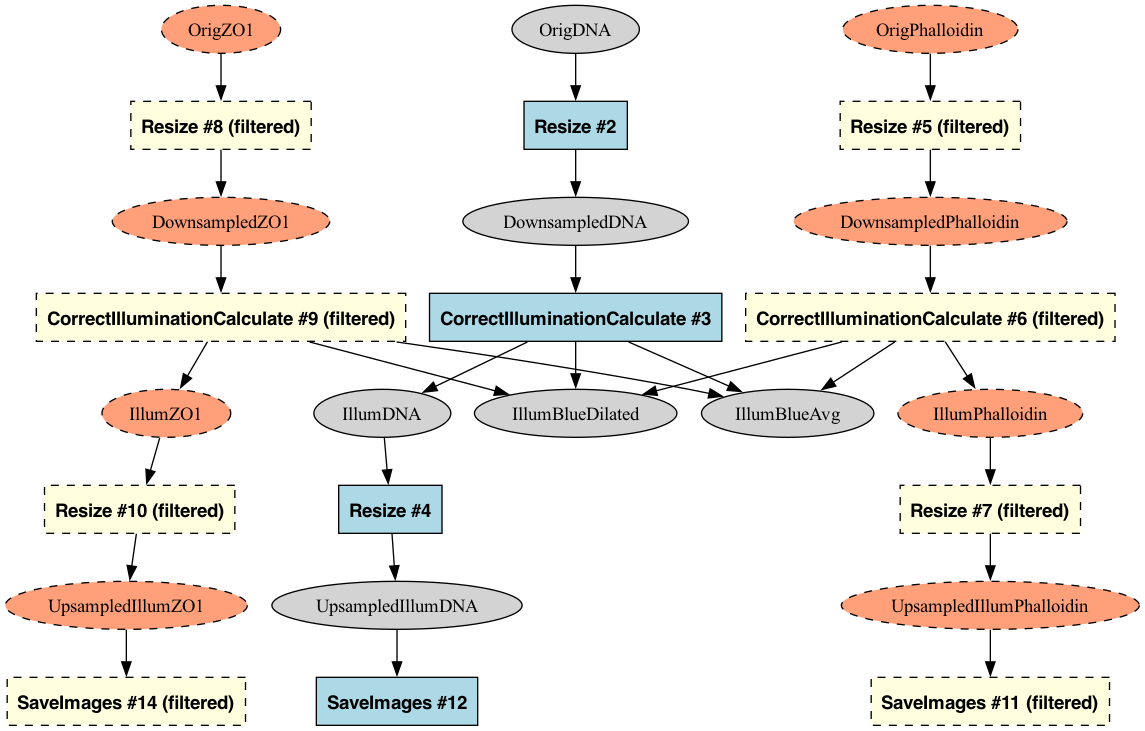
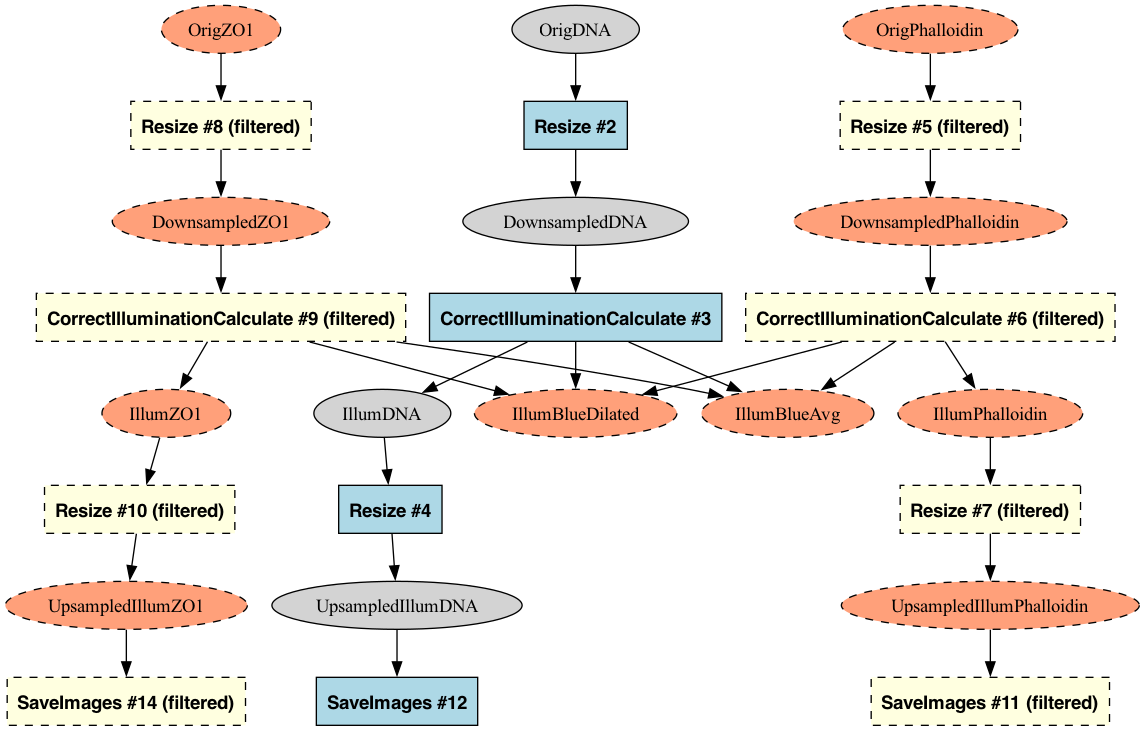
filtered graph

Changed region(s): [[0.3974, 0.5116, 0.7642, 0.6019]]

diff --git a/README.md b/README.md
@@ -148,10 +148,10 @@ The highlight mode is especially useful when exploring a pipeline to understand 
 
 ```bash
 # Generate a filtered graph (removes unreachable nodes)
-python cp_graph.py examples/illum.json examples/output/illum_filtered.dot --root-nodes=OrigDNA
+python cp_graph.py examples/illum.json examples/output/illum_filtered.dot --root-nodes=OrigDNA --remove-unused-images
 
 # Generate a highlighted graph (keeps but highlights unreachable nodes)
-python cp_graph.py examples/illum.json examples/output/illum_highlight.dot --root-nodes=OrigDNA --highlight-filtered
+python cp_graph.py examples/illum.json examples/output/illum_highlight.dot --root-nodes=OrigDNA --remove-unused-images --highlight-filtered
 ```
 
 ![Filtered Graph](examples/output/illum_filtered.png) ![Highlighted Graph](examples/output/illum_highlight.png)
